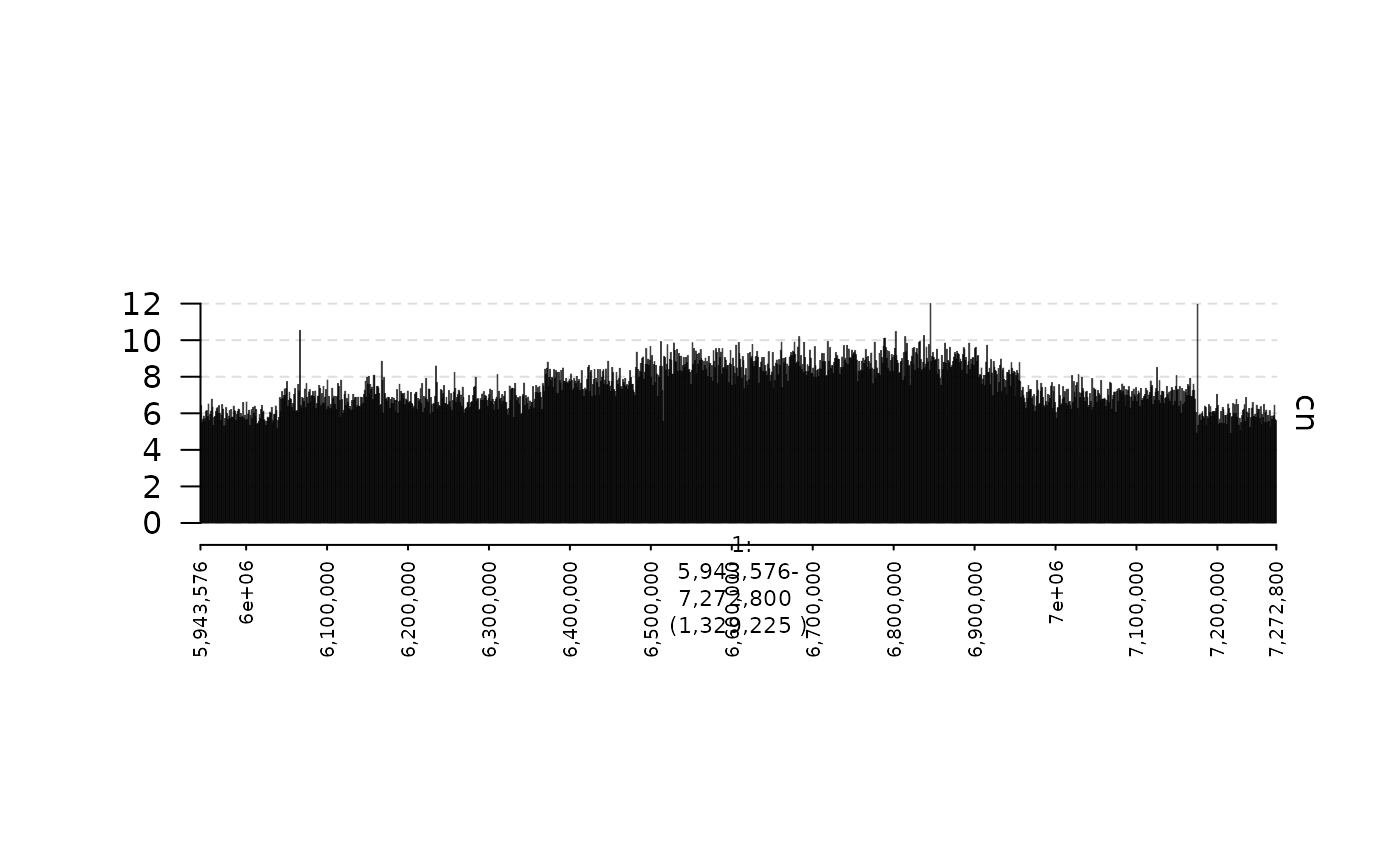
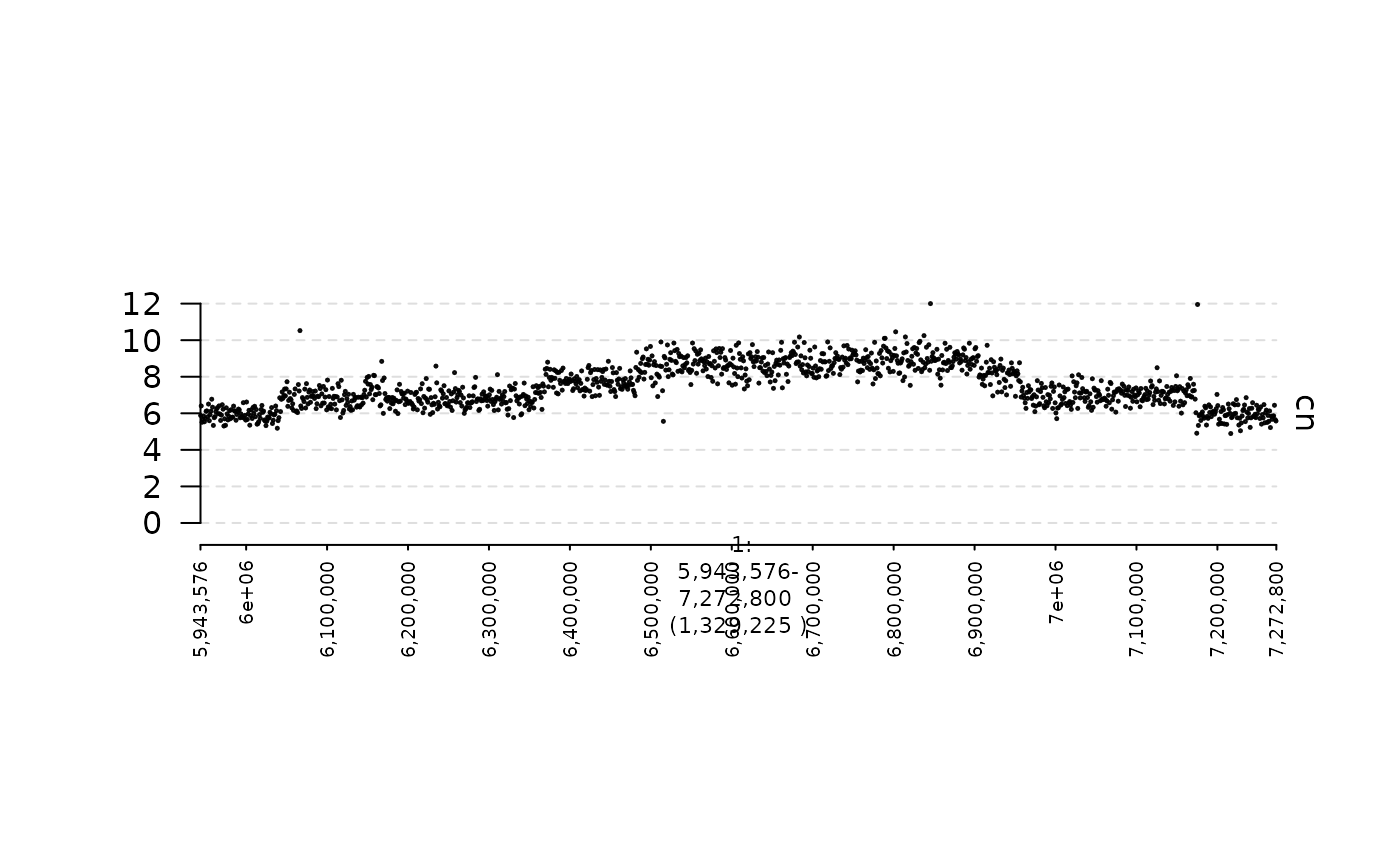
Deploying to gh-pages from @ zining01/gTrack@7f2f3a4661b60654058b5bc14fa9dfcace6b7574 🚀

Changed region(s): [[0.1229, 0.3746, 0.9214, 0.6243]]

diff --git a/articles/quickstart.html b/articles/quickstart.html
@@ -5,13 +5,13 @@
 <meta charset="utf-8">
 <meta http-equiv="X-UA-Compatible" content="IE=edge">
 <meta name="viewport" content="width=device-width, initial-scale=1.0">
-<title>Quick start • gTrack</title>
+<title>Creating and plotting gTracks • gTrack</title>
 <!-- jquery --><script src="https://cdnjs.cloudflare.com/ajax/libs/jquery/3.4.1/jquery.min.js" integrity="sha256-CSXorXvZcTkaix6Yvo6HppcZGetbYMGWSFlBw8HfCJo=" crossorigin="anonymous"></script><!-- Bootstrap --><link rel="stylesheet" href="https://cdnjs.cloudflare.com/ajax/libs/twitter-bootstrap/3.4.1/css/bootstrap.min.css" integrity="sha256-bZLfwXAP04zRMK2BjiO8iu9pf4FbLqX6zitd+tIvLhE=" crossorigin="anonymous">
 <script src="https://cdnjs.cloudflare.com/ajax/libs/twitter-bootstrap/3.4.1/js/bootstrap.min.js" integrity="sha256-nuL8/2cJ5NDSSwnKD8VqreErSWHtnEP9E7AySL+1ev4=" crossorigin="anonymous"></script><!-- bootstrap-toc --><link rel="stylesheet" href="../bootstrap-toc.css">
 <script src="../bootstrap-toc.js"></script><!-- Font Awesome icons --><link rel="stylesheet" href="https://cdnjs.cloudflare.com/ajax/libs/font-awesome/5.12.1/css/all.min.css" integrity="sha256-mmgLkCYLUQbXn0B1SRqzHar6dCnv9oZFPEC1g1cwlkk=" crossorigin="anonymous">
 <link rel="stylesheet" href="https://cdnjs.cloudflare.com/ajax/libs/font-awesome/5.12.1/css/v4-shims.min.css" integrity="sha256-wZjR52fzng1pJHwx4aV2AO3yyTOXrcDW7jBpJtTwVxw=" crossorigin="anonymous">
 <!-- clipboard.js --><script src="https://cdnjs.cloudflare.com/ajax/libs/clipboard.js/2.0.6/clipboard.min.js" integrity="sha256-inc5kl9MA1hkeYUt+EC3BhlIgyp/2jDIyBLS6k3UxPI=" crossorigin="anonymous"></script><!-- headroom.js --><script src="https://cdnjs.cloudflare.com/ajax/libs/headroom/0.11.0/headroom.min.js" integrity="sha256-AsUX4SJE1+yuDu5+mAVzJbuYNPHj/WroHuZ8Ir/CkE0=" crossorigin="anonymous"></script><script src="https://cdnjs.cloudflare.com/ajax/libs/headroom/0.11.0/jQuery.headroom.min.js" integrity="sha256-ZX/yNShbjqsohH1k95liqY9Gd8uOiE1S4vZc+9KQ1K4=" crossorigin="anonymous"></script><!-- pkgdown --><link href="../pkgdown.css" rel="stylesheet">
-<script src="../pkgdown.js"></script><meta property="og:title" content="Quick start">
+<script src="../pkgdown.js"></script><meta property="og:title" content="Creating and plotting gTracks">
 <meta property="og:description" content="gTrack">
 <!-- mathjax --><script src="https://cdnjs.cloudflare.com/ajax/libs/mathjax/2.7.5/MathJax.js" integrity="sha256-nvJJv9wWKEm88qvoQl9ekL2J+k/RWIsaSScxxlsrv8k=" crossorigin="anonymous"></script><script src="https://cdnjs.cloudflare.com/ajax/libs/mathjax/2.7.5/config/TeX-AMS-MML_HTMLorMML.js" integrity="sha256-84DKXVJXs0/F8OTMzX4UR909+jtl4G7SPypPavF+GfA=" crossorigin="anonymous"></script><!--[if lt IE 9]>
 <script src="https://oss.maxcdn.com/html5shiv/3.7.3/html5shiv.min.js"></script>
@@ -50,7 +50,7 @@
   </a>
   <ul class="dropdown-menu" role="menu">
 <li>
-      <a href="../articles/quickstart.html">Quick start</a>
+      <a href="../articles/quickstart.html">Creating and plotting gTracks</a>
     </li>
   </ul>
 </li>
@@ -78,7 +78,7 @@
       </header><div class="row">
   <div class="col-md-9 contents">
     <div class="page-header toc-ignore">
-      <h1 data-toc-skip>Quick start</h1>
+      <h1 data-toc-skip>Creating and plotting gTracks</h1>
             
       
       <small class="dont-index">Source: <a href="http://github.com/mskilab/gTrack/blob/HEAD/../../../../groups/imielinski_lab/home/zchoo/git/gTrack/vignettes/quickstart.rmd" class="external-link"><code>../../../../groups/imielinski_lab/home/zchoo/git/gTrack/vignettes/quickstart.rmd</code></a></small>
@@ -88,68 +88,97 @@
 
     
     
-<p>This is a short demo that explains how to create and plot gTracks.</p>
+<p><code>gTrack</code> is a package that enables easy plotting of data across genomic intervals. This is a short tutorial that explains how gTracks can be created and plotted. For this example, we will use a <em>pyrgo</em> locus from the ovarian carcinoma cell line OVCAR-3.</p>
+<p>In general, gTracks can be created from <code>GRanges</code>, <code>GRangesList</code>, and <code>Matrix</code> objects. In addition, we have written a some R packages (<a href="https://github.com/mskilab/gGnome" class="external-link">gGnome</a> and <a href="https://github.com/mskilab/GxG" class="external-link">GxG</a>) in which <code>R6</code> objects (namely <code>gGraph</code>, <code>gWalk</code>, and <code>gMatrix</code>) include a gTrack constructor (usually invoked by calling the <code>$gt</code> active field or <code>$gtrack</code> method).</p>
 <div class="section level2">
-<h2 id="creating-gtracks">Creating gTracks<a class="anchor" aria-label="anchor" href="#creating-gtracks"></a>
+<h2 id="granges">GRanges<a class="anchor" aria-label="anchor" href="#granges"></a>
 </h2>
-<p>gTracks can be created from <code>GRanges</code>, <code>GRangesList</code>, and <code>Matrix</code> objects. In addition, we have written a few R packages (<a href="https://github.com/mskilab/gGnome" class="external-link">gGnome</a> and <a href="https://github.com/mskilab/GxG" class="external-link">GxG</a>) in which objects include a gTrack constructor (usually invoked by calling the <code>$gt</code> or <code>$gtrack</code> methods).</p>
-<div class="section level3">
-<h3 id="granges">GRanges<a class="anchor" aria-label="anchor" href="#granges"></a>
-</h3>
 <p>GRanges can be used as the starting point for creating scatter plots, bar plots, and line plots. The <code>x</code>-coordinate of each data point in these plots is specified by the genomic position, while the <code>y</code>-coordinate is stored in a user-defined metadata column of the <code>GRanges</code> object.</p>
 <p>In this example, we will create <code>gTrack</code>s to plot read depth in 1 Kbp genomic intervals.</p>
-<div class="section level4">
-<h4 id="scatter-plot">Scatter plot<a class="anchor" aria-label="anchor" href="#scatter-plot"></a>
-</h4>
+<div class="section level3">
+<h3 id="scatter-plot">Scatter plot<a class="anchor" aria-label="anchor" href="#scatter-plot"></a>
+</h3>
 <p>In this first example, we will create a scatter plot. The (normalized) read depth is contained in a metadata column called <code>cn</code>. We need to specify this column name in the argument <code>y.field</code> when creating our gTrack. In addition, to create a scatter plot, we need to set the parameter <code>circles</code> to <code>TRUE</code>. The parameter <code>lwd.border</code> controls the size of the points in the scatter plot, the parameter <code>y0</code> controls the starting position on the y axis, and the parameter <code>y1</code> controls the ending position on the y axis.</p>
 <div class="sourceCode" id="cb1"><pre class="downlit sourceCode r">
 <code class="sourceCode R"><span><span class="va">coverage.gr</span> <span class="op">=</span> <span class="fu"><a href="https://rdrr.io/r/base/readRDS.html" class="external-link">readRDS</a></span><span class="op">(</span><span class="fu"><a href="https://rdrr.io/r/base/system.file.html" class="external-link">system.file</a></span><span class="op">(</span><span class="st">"extdata"</span>, <span class="st">"ovcar.subgraph.coverage.rds"</span>, package <span class="op">=</span> <span class="st">"gTrack"</span><span class="op">)</span><span class="op">)</span></span>
-<span><span class="va">coverage.gt</span> <span class="op">=</span> <span class="fu"><a href="../reference/gTrack-class.html">gTrack</a></span><span class="op">(</span><span class="va">coverage.gr</span>, y.field <span class="op">=</span> <span class="st">"cn"</span>, circles <span class="op">=</span> <span class="cn">TRUE</span>, lwd.border <span class="op">=</span> <span class="fl">0.2</span>, y0 <span class="op">=</span> <span class="fl">0</span>, y1 <span class="op">=</span> <span class="fl">12</span><span class="op">)</span></span>
-<span></span>
-<span><span class="co">## specify genomic region that will be plotted</span></span>
+<span><span class="va">coverage.gt</span> <span class="op">=</span> <span class="fu"><a href="../reference/gTrack-class.html">gTrack</a></span><span class="op">(</span><span class="va">coverage.gr</span>, y.field <span class="op">=</span> <span class="st">"cn"</span>, circles <span class="op">=</span> <span class="cn">TRUE</span>, lwd.border <span class="op">=</span> <span class="fl">0.2</span>, y0 <span class="op">=</span> <span class="fl">0</span>, y1 <span class="op">=</span> <span class="fl">12</span><span class="op">)</span></span></code></pre></div>
+<p>To generate a plot, the <code>plot</code> method is used, which takes two positional arguments, a <code>gTrack</code> and a genomic window over which to generate the plot. The genomic window can be specified as either a <code>GRanges</code>, <code>GRangesList</code>, or a character vector that can be parsed as <code>GRanges</code>. (If <code>window</code> is <code>NULL</code>, then all genomic regions defined in the supplied gTrack will be plotted).</p>
+<div class="sourceCode" id="cb2"><pre class="downlit sourceCode r">
+<code class="sourceCode R"><span><span class="co">## specify genomic region that will be plotted</span></span>
 <span><span class="va">fp</span> <span class="op">=</span> <span class="fu">parse.gr</span><span class="op">(</span><span class="st">"1:6043576-7172800"</span><span class="op">)</span></span>
 <span><span class="fu"><a href="https://rdrr.io/r/graphics/plot.default.html" class="external-link">plot</a></span><span class="op">(</span><span class="va">coverage.gt</span>, <span class="va">fp</span> <span class="op">+</span> <span class="fl">1e5</span><span class="op">)</span></span></code></pre></div>
-<p><img src="quickstart_files/figure-html/unnamed-chunk-2-1.png" width="700"></p>
+<p><img src="quickstart_files/figure-html/unnamed-chunk-3-1.png" width="700" height="10"></p>
 </div>
-<div class="section level4">
-<h4 id="bar-plot">Bar plot<a class="anchor" aria-label="anchor" href="#bar-plot"></a>
-</h4>
+<div class="section level3">
+<h3 id="bar-plot">Bar plot<a class="anchor" aria-label="anchor" href="#bar-plot"></a>
+</h3>
 <p>Next, we will plot the same data as a bar plot. To do this, we will set the parameter <code>bars</code> to <code>TRUE</code>.</p>
-<div class="sourceCode" id="cb2"><pre class="downlit sourceCode r">
+<div class="sourceCode" id="cb3"><pre class="downlit sourceCode r">
 <code class="sourceCode R"><span><span class="va">coverage.bars.gt</span> <span class="op">=</span> <span class="fu"><a href="../reference/gTrack-class.html">gTrack</a></span><span class="op">(</span><span class="va">coverage.gr</span>, y.field <span class="op">=</span> <span class="st">"cn"</span>, bars <span class="op">=</span> <span class="cn">TRUE</span>, y0 <span class="op">=</span> <span class="fl">0</span>, y1 <span class="op">=</span> <span class="fl">12</span><span class="op">)</span></span>
 <span></span>
 <span><span class="fu"><a href="https://rdrr.io/r/graphics/plot.default.html" class="external-link">plot</a></span><span class="op">(</span><span class="va">coverage.bars.gt</span>, <span class="va">fp</span> <span class="op">+</span> <span class="fl">1e5</span><span class="op">)</span></span></code></pre></div>
-<p><img src="quickstart_files/figure-html/unnamed-chunk-3-1.png" width="700"></p>
+<p><img src="quickstart_files/figure-html/unnamed-chunk-4-1.png" width="700" height="10"></p>
 </div>
-<div class="section level4">
-<h4 id="line-plot">Line plot<a class="anchor" aria-label="anchor" href="#line-plot"></a>
-</h4>
+<div class="section level3">
+<h3 id="line-plot">Line plot<a class="anchor" aria-label="anchor" href="#line-plot"></a>
+</h3>
 <p>Finally, we will plot these data as a line plot, by setting <code>lines</code> to <code>TRUE</code>.</p>
-<div class="sourceCode" id="cb3"><pre class="downlit sourceCode r">
+<div class="sourceCode" id="cb4"><pre class="downlit sourceCode r">
 <code class="sourceCode R"><span><span class="va">coverage.lines.gt</span> <span class="op">=</span> <span class="fu"><a href="../reference/gTrack-class.html">gTrack</a></span><span class="op">(</span><span class="va">coverage.gr</span>, y.field <span class="op">=</span> <span class="st">"cn"</span>, lines <span class="op">=</span> <span class="cn">TRUE</span>, y0 <span class="op">=</span> <span class="fl">0</span>, y1 <span class="op">=</span> <span class="fl">12</span><span class="op">)</span></span>
 <span></span>
 <span><span class="fu"><a href="https://rdrr.io/r/graphics/plot.default.html" class="external-link">plot</a></span><span class="op">(</span><span class="va">coverage.lines.gt</span>, <span class="va">fp</span> <span class="op">+</span> <span class="fl">1e5</span><span class="op">)</span></span></code></pre></div>
-<p><img src="quickstart_files/figure-html/unnamed-chunk-4-1.png" width="700"></p>
+<p><img src="quickstart_files/figure-html/unnamed-chunk-5-1.png" width="700" height="10"></p>
 </div>
-<div class="section level4">
-<h4 id="multiple-plots">Multiple plots<a class="anchor" aria-label="anchor" href="#multiple-plots"></a>
-</h4>
+<div class="section level3">
+<h3 id="multiple-plots">Multiple plots<a class="anchor" aria-label="anchor" href="#multiple-plots"></a>
+</h3>
 <p>A useful feature of <code>gTrack</code> objects is that multiple tracks can be concatenated to produce stacked subplots, as shown in the following example.</p>
-<div class="sourceCode" id="cb4"><pre class="downlit sourceCode r">
+<div class="sourceCode" id="cb5"><pre class="downlit sourceCode r">
 <code class="sourceCode R"><span><span class="va">concatenated.gt</span> <span class="op">=</span> <span class="fu"><a href="../reference/c-methods.html">c</a></span><span class="op">(</span><span class="va">coverage.gt</span>, <span class="va">coverage.bars.gt</span>, <span class="va">coverage.lines.gt</span><span class="op">)</span></span>
 <span></span>
 <span><span class="fu"><a href="https://rdrr.io/r/graphics/plot.default.html" class="external-link">plot</a></span><span class="op">(</span><span class="va">concatenated.gt</span>, <span class="va">fp</span> <span class="op">+</span> <span class="fl">1e5</span><span class="op">)</span></span></code></pre></div>
-<p><img src="quickstart_files/figure-html/unnamed-chunk-5-1.png" width="700"></p>
+<p><img src="quickstart_files/figure-html/unnamed-chunk-6-1.png" width="700" height="10"></p>
 </div>
 </div>
-<div class="section level3">
-<h3 id="grangeslist">GRangesList<a class="anchor" aria-label="anchor" href="#grangeslist"></a>
-</h3>
+<div class="section level2">
+<h2 id="grangeslist">GRangesList<a class="anchor" aria-label="anchor" href="#grangeslist"></a>
+</h2>
+<p>A <code>gTrack</code> can also be created from a <code>GRangesList</code>. This is desirable when plotting ranges that are grouped together in some way, such as alignments deriving from a single read pair in the case of short read whole genome sequencing.</p>
 </div>
-<div class="section level3">
-<h3 id="matrix">Matrix<a class="anchor" aria-label="anchor" href="#matrix"></a>
-</h3>
+<div class="section level2">
+<h2 id="matrix">Matrix<a class="anchor" aria-label="anchor" href="#matrix"></a>
+</h2>
+<p>A <code>gTrack</code> can be created from a <code>GRanges</code> and corresponding <code>Matrix</code> in order to plot associations between two genomic ranges. One example of this would be a heatmap, where the color of each cell is proportional to some value defined by its corresponding genomic regions, such as number of shared read pairs.</p>
 </div>
+<div class="section level2">
+<h2 id="ggraph">gGraph<a class="anchor" aria-label="anchor" href="#ggraph"></a>
+</h2>
+<p><code>gGraph</code>s are genome graphs in which nodes represent (signed) genomic intervals, and edges represent adjacencies between those intervals (see our <code>gGnome</code> package <a href="https://github.com/mskilab/gGnome" class="external-link">here</a>!).</p>
+<p>A <code>gTrack</code> can be created from a <code>gGraph</code> using either the <code>$gt</code> active field or <code>$gtrack</code> method, as shown below. In this example, we will create a plot of a tumor <code>gGraph</code> and the associated coverage profile.</p>
+<div class="sourceCode" id="cb6"><pre class="downlit sourceCode r">
+<code class="sourceCode R"><span><span class="va">gg</span> <span class="op">=</span> <span class="fu"><a href="https://rdrr.io/r/base/readRDS.html" class="external-link">readRDS</a></span><span class="op">(</span><span class="fu"><a href="https://rdrr.io/r/base/system.file.html" class="external-link">system.file</a></span><span class="op">(</span><span class="st">"extdata"</span>, <span class="st">"ovcar.subgraph.rds"</span>, package <span class="op">=</span> <span class="st">"gTrack"</span><span class="op">)</span><span class="op">)</span></span>
+<span><span class="fu"><a href="https://rdrr.io/r/graphics/plot.default.html" class="external-link">plot</a></span><span class="op">(</span><span class="fu"><a href="../reference/c-methods.html">c</a></span><span class="op">(</span><span class="va">coverage.gt</span>, <span class="va">gg</span><span class="op">$</span><span class="va">gt</span><span class="op">)</span>, <span class="va">fp</span> <span class="op">+</span> <span class="fl">1e5</span><span class="op">)</span></span></code></pre></div>
+<p><img src="quickstart_files/figure-html/unnamed-chunk-7-1.png" width="700" height="10"></p>
+</div>
+<div class="section level2">
+<h2 id="gwalk">gWalk<a class="anchor" aria-label="anchor" href="#gwalk"></a>
+</h2>
+<p><code>gWalk</code>s represent paths through a <code>gGraph</code>. Generally, they represent somatic haplotypes that could exist in a genome corresponding with a give <code>gGraph</code> (more details in the <code>gGnome</code> package!). Like <code>gGraph</code>s, <code>gWalk</code>s have active field <code>$gt</code> and method <code>$gtrack</code>, both of which will produce a <code>gTrack</code>.</p>
+<p>The following example plots a set of <code>gWalk</code>s associated with the <code>gGraph</code> plotted above.</p>
+<div class="sourceCode" id="cb7"><pre class="downlit sourceCode r">
+<code class="sourceCode R"><span><span class="va">wks</span> <span class="op">=</span> <span class="fu"><a href="https://rdrr.io/r/base/readRDS.html" class="external-link">readRDS</a></span><span class="op">(</span><span class="fu"><a href="https://rdrr.io/r/base/system.file.html" class="external-link">system.file</a></span><span class="op">(</span><span class="st">"extdata"</span>, <span class="st">"ovcar.subgraph.walks.rds"</span>, package <span class="op">=</span> <span class="st">"gTrack"</span><span class="op">)</span><span class="op">)</span></span>
+<span><span class="fu"><a href="https://rdrr.io/r/graphics/plot.default.html" class="external-link">plot</a></span><span class="op">(</span><span class="fu"><a href="../reference/c-methods.html">c</a></span><span class="op">(</span><span class="va">coverage.gt</span>, <span class="va">gg</span><span class="op">$</span><span class="va">gt</span>, <span class="va">wks</span><span class="op">$</span><span class="va">gt</span><span class="op">)</span>, <span class="va">fp</span> <span class="op">+</span> <span class="fl">1e5</span><span class="op">)</span></span></code></pre></div>
+<p><img src="quickstart_files/figure-html/unnamed-chunk-8-1.png" width="700" height="10"></p>
+</div>
+<div class="section level2">
+<h2 id="gmatrix">gMatrix<a class="anchor" aria-label="anchor" href="#gmatrix"></a>
+</h2>
+<p><code>gMatrix</code> is an object implemented in the package <code>GxG</code> that facilitates analysis and visualization of paired genomic intervals. There are many use cases for <code>gMatrix</code>, but the one used in this example is Hi-C data, which consists of read counts shared by pairs of genomic bins. We will plot the Hi-C profile associated with this locus.</p>
+<p>Again, similar to <code>gWalk</code> and <code>gGraph</code>, a <code>gTrack</code> can be created for a <code>gMatrix</code> with the active field <code>$gt</code> or method <code>$gtrack</code>. Here we will use the <code>$gtrack</code> method to set a parameter for coloring the heatmap (<code>cmap.max</code>).</p>
+<div class="sourceCode" id="cb8"><pre class="downlit sourceCode r">
+<code class="sourceCode R"><span><span class="va">gm</span> <span class="op">=</span> <span class="fu"><a href="https://rdrr.io/r/base/readRDS.html" class="external-link">readRDS</a></span><span class="op">(</span><span class="fu"><a href="https://rdrr.io/r/base/system.file.html" class="external-link">system.file</a></span><span class="op">(</span><span class="st">"extdata"</span>, <span class="st">"ovcar.subgraph.hic.rds"</span>, package <span class="op">=</span> <span class="st">"gTrack"</span><span class="op">)</span><span class="op">)</span></span>
+<span><span class="fu"><a href="https://rdrr.io/r/graphics/plot.default.html" class="external-link">plot</a></span><span class="op">(</span><span class="fu"><a href="../reference/c-methods.html">c</a></span><span class="op">(</span><span class="va">coverage.gt</span>, <span class="va">gg</span><span class="op">$</span><span class="va">gt</span>, <span class="va">gm</span><span class="op">$</span><span class="fu">gtrack</span><span class="op">(</span>cmap.max <span class="op">=</span> <span class="fl">1000</span><span class="op">)</span><span class="op">)</span>, <span class="va">fp</span> <span class="op">+</span> <span class="fl">1e5</span><span class="op">)</span></span></code></pre></div>
+<p><img src="quickstart_files/figure-html/unnamed-chunk-9-1.png" width="700" height="10"></p>
 </div>
   </div>
 

diff --git a/articles/index.html b/articles/index.html
@@ -32,7 +32,7 @@
     <span class="caret"></span>
   </a>
   <ul class="dropdown-menu" role="menu"><li>
-      <a href="../articles/quickstart.html">Quick start</a>
+      <a href="../articles/quickstart.html">Creating and plotting gTracks</a>
     </li>
   </ul></li>
 <li>
@@ -60,7 +60,7 @@
       <h3>All vignettes</h3>
       <p class="section-desc"></p>
 
-      <dl><dt><a href="quickstart.html">Quick start</a></dt>
+      <dl><dt><a href="quickstart.html">Creating and plotting gTracks</a></dt>
         <dd>
       </dd></dl></div>
   </div>

diff --git a/news/index.html b/news/index.html
@@ -32,7 +32,7 @@
     <span class="caret"></span>
   </a>
   <ul class="dropdown-menu" role="menu"><li>
-      <a href="../articles/quickstart.html">Quick start</a>
+      <a href="../articles/quickstart.html">Creating and plotting gTracks</a>
     </li>
   </ul></li>
 <li>

diff --git a/reference/index.html b/reference/index.html
@@ -32,7 +32,7 @@
     <span class="caret"></span>
   </a>
   <ul class="dropdown-menu" role="menu"><li>
-      <a href="../articles/quickstart.html">Quick start</a>
+      <a href="../articles/quickstart.html">Creating and plotting gTracks</a>
     </li>
   </ul></li>
 <li>

diff --git a/authors.html b/authors.html
@@ -32,7 +32,7 @@
     <span class="caret"></span>
   </a>
   <ul class="dropdown-menu" role="menu"><li>
-      <a href="articles/quickstart.html">Quick start</a>
+      <a href="articles/quickstart.html">Creating and plotting gTracks</a>
     </li>
   </ul></li>
 <li>

diff --git a/404.html b/404.html
@@ -49,7 +49,7 @@
   </a>
   <ul class="dropdown-menu" role="menu">
 <li>
-      <a href="articles/quickstart.html">Quick start</a>
+      <a href="articles/quickstart.html">Creating and plotting gTracks</a>
     </li>
   </ul>
 </li>

diff --git a/index.html b/index.html
@@ -53,7 +53,7 @@
   </a>
   <ul class="dropdown-menu" role="menu">
 <li>
-      <a href="articles/quickstart.html">Quick start</a>
+      <a href="articles/quickstart.html">Creating and plotting gTracks</a>
     </li>
   </ul>
 </li>
